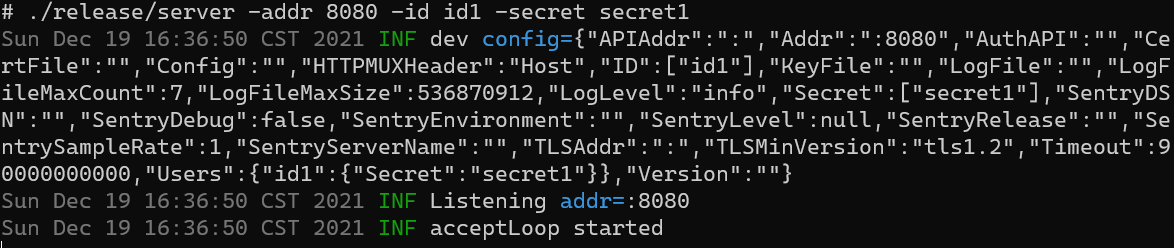
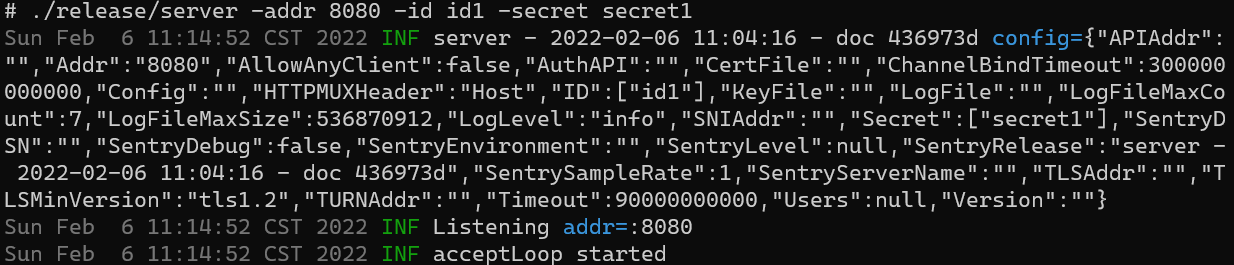
中英文文档更新
revive 忽略 build 和 release 文件夹

统一 SNIAddr 的 usage

同步可执行文件的 usage 的中英文文档

中英文文档更新【HTTPS 解密成 HTTP 后内网穿透】

更新老旧的中英文文档贴图

中英文文档更新【HTTPS 直接内网穿透】

Changed region(s): [[0.0, 0.1129, 1.0, 0.9879], [0.0, 0.0, 0.5826, 0.0847]]

diff --git a/doc/English.md b/doc/English.md
@@ -12,16 +12,18 @@ Focus on high-performance, low-latency, memory-saving intranet penetration solut
 - [Working Principle](#working-principle)
 - [Examples](#examples)
   - [HTTP](#http)
-  - [HTTPS](#https)
-  - [TLS Encrypts HTTP Between Client And Server](#tls-encrypts-http-between-client-and-server)
+  - [HTTPS Decrypted Into HTTP](#https-decrypted-into-http)
+  - [HTTPS Directly](#https-directly)
+  - [Client HTTP Convert To HTTPS](#client-http-convert-to-https)
 - [Parameters](#parameters)
   - [Client Parameters](#client-parameters)
   - [Server Parameters](#server-parameters)
   - [Configuration](#configuration)
-  - [Server Specifies Users](#server-specifies-users)
+  - [Server Configurates Users](#server-configurates-users)
     - [Via Command Line](#via-command-line)
     - [Through The Users Configuration File](#through-the-users-configuration-file)
     - [Through The Config Configuration File](#through-the-config-configuration-file)
+    - [Allow Any Client](#allow-any-client)
 - [Benchmark](#benchmark)
   - [gt](#gt-benchmark)
   - [frp](#frp-dev-branch-42745a3)
@@ -54,58 +56,74 @@ Focus on high-performance, low-latency, memory-saving intranet penetration solut
 
 ![img](./image/客户端http示例.png)
 
-### HTTPS
+### HTTPS Decrypted Into HTTP
+
+- Requirements: There is an intranet server and a public network server, and id1.example.com resolves to the address of the public network server. Want to access the HTTP web page served on port 80 on the intranet server by visiting https://id1.example.com.
+- Server (public)
+
+```shell
+./release/server -addr "" -tlsAddr 443 -certFile /root/openssl_crt/tls.crt -keyFile /root/openssl_crt/tls.key -id id1 -secret secret1
+```
+
+![img](./image/https解密示例-服务端.png)
+
+- Client (internal), because it uses a self-signed certificate, uses the -remoteCertInsecure option, otherwise it is
+  forbidden to use this option (man-in-the-middle attacks cause encrypted content to be decrypted)
+
+```shell
+./release/client -local http://127.0.0.1 -remote tls://id1.example.com -remoteCertInsecure -id id1 -secret secret1
+```
+
+![img](./image/https解密示例-客户端.png)
+
+### HTTPS Directly
+
+- Requirements: There is an intranet server and a public network server, and id1.example.com resolves to the address of the public network server. Want to access the HTTPS webpage served on port 443 on the intranet server by visiting https://id1.example.com.
+- Server (public)
+
+```shell
+./release/server -addr 8080 -sniAddr 443 -id id1 -secret secret1
+```
+
+![img](./image/sni示例-服务端.png)
+
+- Client (internal)
+
+```shell
+./release/client -local https://127.0.0.1 -remote tcp://id1.example.com:8080 -id id1 -secret secret1
+```
+
+![img](./image/sni示例-客户端.png)
+
+### Client HTTP Convert To HTTPS
 
 - Requirements: There is an internal gt server and a public gt server, id1.example.com resolves to the address of the
-  public gt server. Hope to visit the webpage served by port 443 on the intranet server by visiting id1.example.com:443.
+  public gt server. I hope to visit the webpage served by port 80 on the intranet server by visiting id1.example.com: 8080. At the same time, TLS is used to encrypt the communication between the client and the server.
 
 - Server (public)
 
 ```shell
-./release/server -addr 0 -tlsAddr 443 -certFile /root/openssl_crt/server.crt -keyFile /root/openssl_crt/server.key -id id1 -secret secret1
+./release/server -addr 8080 -tlsAddr 443 -certFile /root/openssl_crt/tls.crt -keyFile /root/openssl_crt/tls.key -id id1 -secret secret1
 ```
 
-![img](./image/服务端https示例.png)
+![img](./image/https解密示例-服务端.png)
 
-- The client (internal), because it uses a self-signed certificate, uses the -remoteCertInsecure option, otherwise it is
-  forbidden to use this option (man-in-the-middle attacks cause encrypted content to be decrypted)
-
-```shell
-./release/client -local https://127.0.0.1:443 -remote tls://id1.example.com -remoteCertInsecure -id id1 -secret secret1
-```
-
-![img](./image/客户端https示例.png)
-
-### TLS Encrypts HTTP Between Client And Server
-
-- Requirements: There is an internal gt server and a public gt server, id1.example.com resolves to the address of the
-  public gt server. I hope to visit the webpage served by port 80 on the intranet server by visiting id1.example.com:
-  8080. At the same time, TLS is used to encrypt the communication between the client and the server.
-
-- Server (public gt server)
-
-```shell
-./release/server -addr 8080 -tlsAddr 443 -certFile /root/openssl_crt/server.crt -keyFile /root/openssl_crt/server.key -id id1 -secret secret1
-```
-
-![img](./image/服务端https示例.png)
-
-- The client (gt server), because it uses a self-signed certificate, so the use of the -remoteCertInsecureoption,
+- Client (internal), because it uses a self-signed certificate, so the use of the -remoteCertInsecureoption,
   otherwise prohibit the use of this option (middle attack led to the encrypted content is decrypted)
 
 ```shell
 ./release/client -local http://127.0.0.1:80 -remote tls://id1.example.com -remoteCertInsecure -id id1 -secret secret1
 ```
 
-![img](./image/客户端https示例.png)
+![img](./image/https解密示例-客户端.png)
 
 ## Parameters
 
 ### Client Parameters
 
 ```shell
-$ ./client -h
-Usage of ./client:
+# ./release/client -h
+Usage of ./release/client:
   -config string
         The config file path to load
   -id string
@@ -113,7 +131,7 @@ Usage of ./client:
   -local string
         The local service url
   -localTimeout duration
-        The timeout for local connections (default 2m0s)
+        The timeout of local connections. Supports values like '30s', '5m' (default 2m0s)
   -logFile string
         Path to save the log file
   -logFileMaxCount uint
@@ -123,9 +141,11 @@ Usage of ./client:
   -logLevel string
         Log level: trace, debug, info, warn, error, fatal, panic, disable (default "info")
   -reconnectDelay duration
-        The delay before reconnect (default 5s)
+        The delay before reconnect. Supports values like '30s', '5m' (default 5s)
   -remote string
         The remote server url. Support tcp:// and tls://, default tcp://
+  -remoteAPI string
+        The API to get remote server url
   -remoteCert string
         The path to remote cert
   -remoteCertInsecure
@@ -133,7 +153,7 @@ Usage of ./client:
   -remoteConnections uint
         The number of connections to server (default 1)
   -remoteTimeout duration
-        The timeout for remote connections (default 5s)
+        The timeout of remote connections. Supports values like '30s', '5m' (default 5s)
   -secret string
         The secret used to verify the id
   -sentryDSN string
@@ -145,11 +165,13 @@ Usage of ./client:
   -sentryLevel value
         Sentry levels: trace, debug, info, warn, error, fatal, panic (default ["error", "fatal", "panic"])
   -sentryRelease string
-        Sentry release to be sent with events
+        Sentry release to be sent with events (default "client - 2022-01-29 10:43:43 - doc 54ac84a")
   -sentrySampleRate float
         Sentry sample rate for event submission: [0.0 - 1.0] (default 1)
   -sentryServerName string
         Sentry server name to be reported
+  -useLocalAsHTTPHost
+        Use the local address as host
   -version
         Show the version of this program
 ```
@@ -222,7 +244,7 @@ options:
   secret: secret1
 ```
 
-### Server Specifies Users
+### Server Configurates Users
 
 The following three methods can be used at the same time. If conflicts are resolved, the priority will be lowered from
 top to bottom.
@@ -273,6 +295,10 @@ options:
   tlsVersion: tls1.3
   users: testdata/users.yaml
 ```
+
+#### Allow Any Client
+
+Add `-allowAnyClient` to the startup parameters of the server, all clients can connect to the server without configuring the server, but the clients with the same `id` only use the `secret` of the first client connected to the server as the correct `secret`, which cannot be overwritten by subsequent clients to ensure security.
 
 ## Benchmark
 

diff --git a/README.md b/README.md
@@ -14,16 +14,18 @@
 - [工作原理](#工作原理)
 - [示例](#示例)
   - [HTTP 内网穿透](#http-内网穿透)
-  - [HTTPS 内网穿透](#https-内网穿透)
-  - [TLS 加密客户端服务端之间的 HTTP](#tls-加密客户端服务端之间的-http)
+  - [HTTPS 解密成 HTTP 后内网穿透](#https-解密成-http-后内网穿透)
+  - [HTTPS 直接内网穿透](#https-直接内网穿透)
+  - [TLS 加密客户端服务端之间的 HTTP 通信](#tls-加密客户端服务端之间的-http-通信)
 - [参数](#参数)
   - [客户端参数](#客户端参数)
   - [服务端参数](#服务端参数)
   - [配置文件](#配置文件)
-  - [服务端指定 users](#服务端指定-users)
+  - [服务端配置 users](#服务端配置-users)
     - [通过命令行](#通过命令行)
     - [通过 users 配置文件](#通过-users-配置文件)
     - [通过 config 配置文件](#通过-config-配置文件)
+    - [允许所有的客户端](#允许所有的客户端)
 - [性能测试](#性能测试)
   - [gt](#gt-benchmark)
   - [frp](#frp-dev-branch-42745a3)
@@ -55,27 +57,47 @@
 
 ![img](./doc/image/客户端http示例.png)
 
-### HTTPS 内网穿透
+### HTTPS 解密成 HTTP 后内网穿透
 
-- 需求：有一台内网服务器和一台公网服务器，id1.example.com 解析到公网服务器的地址。希望通过访问 id1.example.com:443 来访问内网服务器上 443 端口服务的网页。
+- 需求：有一台内网服务器和一台公网服务器，id1.example.com 解析到公网服务器的地址。希望通过访问 https://id1.example.com 来访问内网服务器上 80 端口提供的 HTTP 网页。
 
 - 服务端（公网服务器）
 
 ```shell
-./release/server -addr 0 -tlsAddr 443 -certFile /root/openssl_crt/server.crt -keyFile /root/openssl_crt/server.key -id id1 -secret secret1
+./release/server -addr "" -tlsAddr 443 -certFile /root/openssl_crt/tls.crt -keyFile /root/openssl_crt/tls.key -id id1 -secret secret1
 ```
 
-![img](./doc/image/服务端https示例.png)
+![img](./doc/image/https解密示例-服务端.png)
 
 - 客户端（内网服务器），因为使用了自签名证书，所以使用了 `-remoteCertInsecure` 选项，其它情况禁止使用此选项（中间人攻击导致加密内容被解密）
 
 ```shell
-./release/client -local https://127.0.0.1:443 -remote tls://id1.example.com -remoteCertInsecure -id id1 -secret secret1
+./release/client -local http://127.0.0.1 -remote tls://id1.example.com -remoteCertInsecure -id id1 -secret secret1
 ```
 
-![img](./doc/image/客户端https示例.png)
+![img](./doc/image/https解密示例-客户端.png)
 
-### TLS 加密客户端服务端之间的 HTTP
+### HTTPS 直接内网穿透
+
+- 需求：有一台内网服务器和一台公网服务器，id1.example.com 解析到公网服务器的地址。希望通过访问 https://id1.example.com 来访问内网服务器上 443 端口提供的 HTTPS 网页。
+
+- 服务端（公网服务器）
+
+```shell
+./release/server -addr 8080 -sniAddr 443 -id id1 -secret secret1
+```
+
+![img](./doc/image/sni示例-服务端.png)
+
+- 客户端（内网服务器）
+
+```shell
+./release/client -local https://127.0.0.1 -remote tcp://id1.example.com:8080 -id id1 -secret secret1
+```
+
+![img](./doc/image/sni示例-客户端.png)
+
+### TLS 加密客户端服务端之间的 HTTP 通信
 
 - 需求：有一台内网服务器和一台公网服务器，id1.example.com 解析到公网服务器的地址。希望通过访问 id1.example.com:8080 来访问内网服务器上 80 端口服务的网页。同时用 TLS
   加密客户端与服务端之间的通信。
@@ -83,7 +105,7 @@
 - 服务端（公网服务器）
 
 ```shell
-./release/server -addr 8080 -tlsAddr 443 -certFile /root/openssl_crt/server.crt -keyFile /root/openssl_crt/server.key -id id1 -secret secret1
+./release/server -addr 8080 -tlsAddr 443 -certFile /root/openssl_crt/tls.crt -keyFile /root/openssl_crt/tls.key -id id1 -secret secret1
 ```
 
 ![img](./doc/image/服务端tls-http.png)
@@ -110,7 +132,7 @@ Usage of ./client:
   -local string
         需要转发的本地服务地址
   -localTimeout duration
-        本地服务超时时间（默认 2m）
+        本地服务超时时间。支持像‘30s’，‘5m’这样的值（默认 2m）
   -logFile string
         保存日志文件的路径
   -logFileMaxCount uint
@@ -123,6 +145,8 @@ Usage of ./client:
         重连等待时间 (默认 5s)
   -remote string
         服务端地址。支持 tcp:// 和 tls://, 默认 tcp://。
+  -remoteAPI string
+        获取服务端地址的 API
   -remoteCert string
         服务器证书路径
   -remoteCertInsecure
@@ -130,7 +154,7 @@ Usage of ./client:
   -remoteConnections uint
         服务器的连接数（默认 1）
   -remoteTimeout duration
-        服务器连接超时（默认 5s）
+        服务器连接超时。支持像‘30s’，‘5m’这样的值（默认 5s）
   -secret string
         用于校验 ID 的机密
   -sentryDSN string
@@ -147,6 +171,8 @@ Usage of ./client:
         发送到 Sentry 的 sample rate : [0.0 - 1.0] (默认 1)
   -sentryServerName string
         发送到 Sentry 的 server name
+  -useLocalAsHTTPHost
+        转发请求到 local 参数指定的地址时将 local 参数作为 HTTP Host
   -version
         打印此程序的版本
 ```
@@ -157,13 +183,21 @@ Usage of ./client:
 $ ./server -h
 Usage of ./server:
   -addr string
-        监听地址（默认 80）。支持只填写端口
+        监听地址（默认 80）。支持像‘80’，‘:80’或‘0.0.0.0:80’这样的值
+  -allowAnyClient
+        允许任意的客户端连接服务端
   -apiAddr string
-        api 监听地址。支持只填写端口
+        api 监听地址。支持像‘80’，‘:80’或‘0.0.0.0:80’这样的值
+  -authAPI string
+        验证用户的 ID 和 secret 的 API
   -certFile string
         cert 路径
+  -channelBindTimeout duration
+        隧道绑定的超时时间. 支持像‘30s’，‘5m’这样的值（默认 5m0s）
   -config string
         配置文件路径
+  -httpMUXHeader string
+        HTTP 多路复用的头部（默认“Host”）
   -id value
         用户标识符
   -keyFile string
@@ -192,12 +226,16 @@ Usage of ./server:
         发送到 Sentry 的 sample rate : [0.0 - 1.0] (默认 1)
   -sentryServerName string
         发送到 Sentry 的 server name
+  -sniAddr string
+        原生的 TLS 代理的监听地址。Host 来源于 Server Name Indication。支持像‘80’，‘:80’或‘0.0.0.0:80’这样的值
   -timeout duration
-        全局超时（默认 90s）
+        全局超时。支持像‘30s’，‘5m’这样的值（默认 90s）
   -tlsAddr string
-        tls 监听地址。支持只填写端口
+        tls 监听地址。支持像‘80’，‘:80’或‘0.0.0.0:80’这样的值
   -tlsVersion string
         最低 tls 支持版本： tls1.1, tls1.2, tls1.3 (默认 "tls1.2")
+  -turnAddr string
+        TURN 服务的监听地址。支持像‘3478’，‘:3478’或‘0.0.0.0:3478’这样的值
   -users string
         yaml 格式的用户配置文件
   -version
@@ -218,7 +256,7 @@ options:
   secret: secret1
 ```
 
-### 服务端指定 users
+### 服务端配置 users
 
 以下三种方式可同时使用，若冲突则按照从上到下优先级依次降低的方式解决。
 
@@ -270,6 +308,10 @@ options:
   tlsVersion: tls1.3
   users: testdata/users.yaml
 ```
+
+#### 允许所有的客户端
+
+在服务端的启动参数上添加 `-allowAnyClient`，所有的客户端无需在服务端配置即可连接服务端，但 `id` 相同的客户端只将第一个连接服务端的客户端的 `secret` 作为正确的 `secret`，不能被后续连接服务端的客户端的 `secret` 覆盖，保证安全性。
 
 ## 性能测试
 
